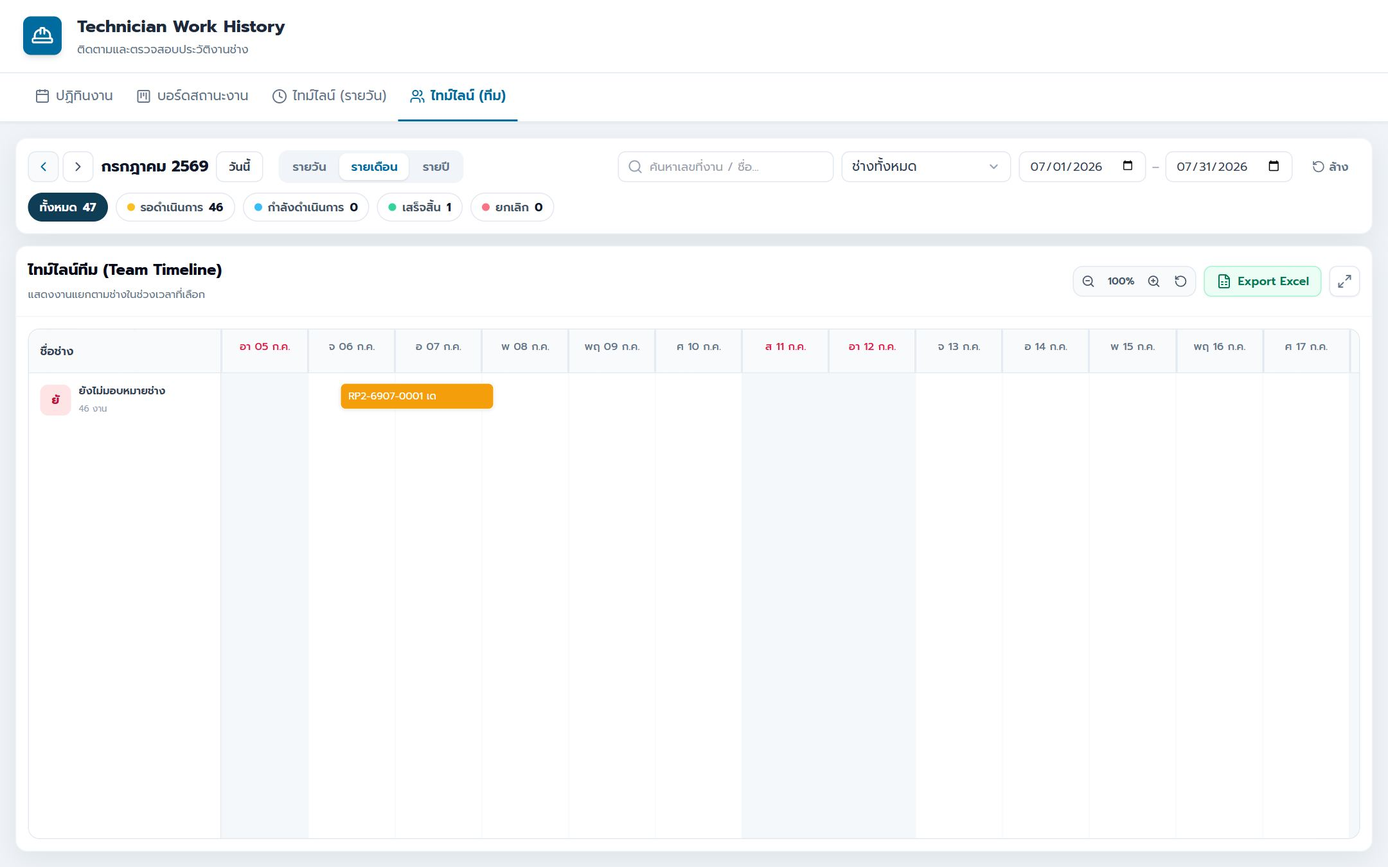
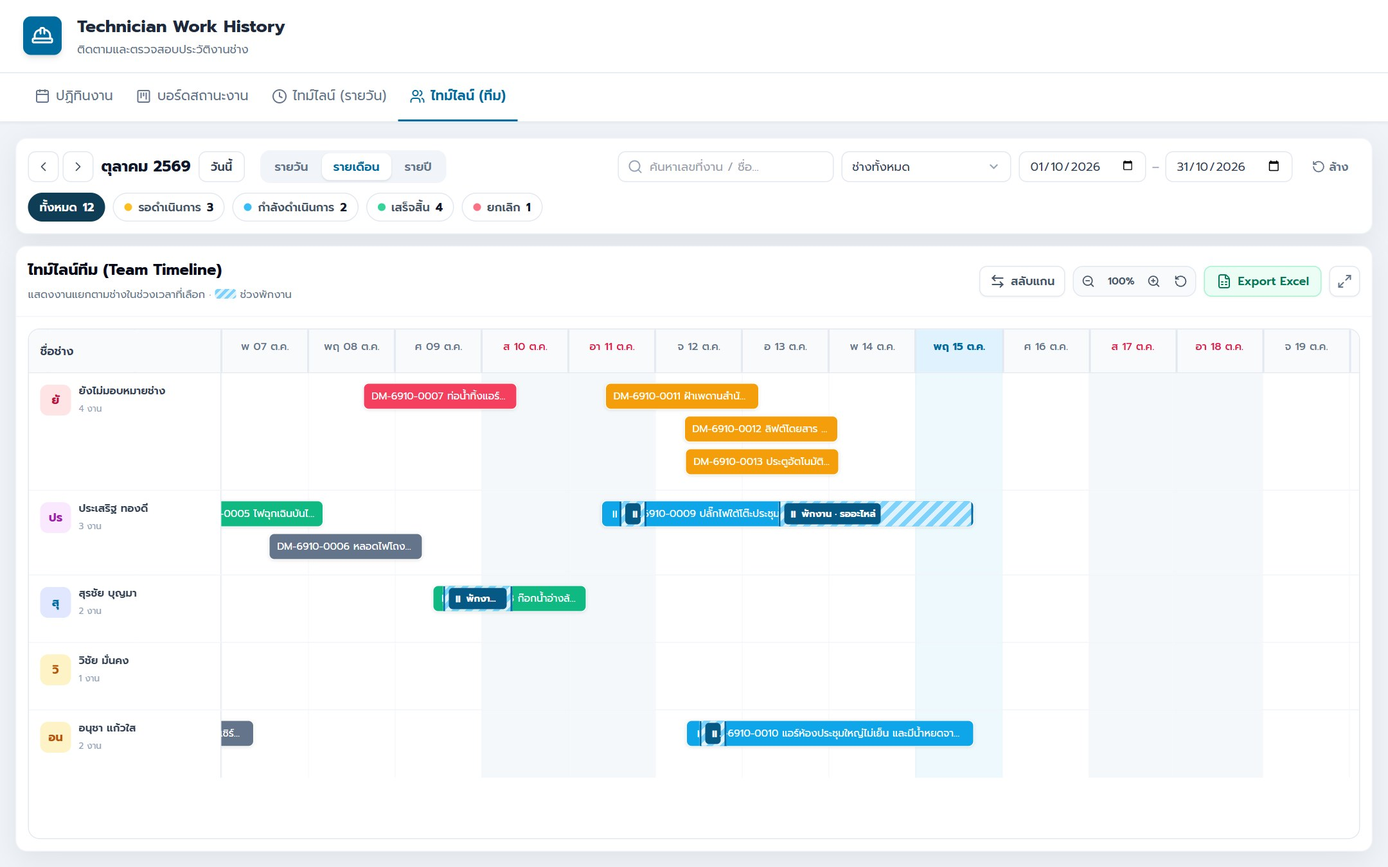
ประวัติงานช่าง: ปุ่มสลับแกนในไทม์ไลน์รายวันและทีม (วันที่/ชื่อช่างเป็นหัวตาราง จำค่าในเบราว์เซอร์) + ปรับคู่มือ

diff --git a/work_history.php b/work_history.php
@@ -427,6 +427,31 @@ include "config_ctrl/checksession.php";
         .timeline-container { max-height: calc(100vh - 290px); }
       }
 
+      /* ไทม์ไลน์แบบสลับแกน: เวลา/วันที่อยู่ด้านซ้าย — วันที่/ช่างเป็นหัวคอลัมน์ */
+      .tlv { width: max-content; min-width: 100%; flex: none; }
+      .tlv-row { display: flex; }
+      .tlv-head { position: sticky; top: 0; z-index: 20; background: #f8fafc; border-bottom: 1px solid #e2e8f0; }
+      .tlv-axis { flex: none; width: var(--axis); position: sticky; left: 0; z-index: 10; background: #fff; border-right: 1px solid #e2e8f0; font-size: .7rem; font-weight: 500; color: #64748b; }
+      .tlv-head .tlv-axis { z-index: 30; background: #f8fafc; padding: .6rem .5rem; font-size: .75rem; font-weight: 600; color: #334155; display: flex; align-items: center; justify-content: center; text-align: center; }
+      .tlv-tick { border-top: 1px solid #f1f5f9; padding: 2px 6px; text-align: right; white-space: nowrap; overflow: hidden; line-height: 1.2; box-sizing: border-box; }
+      .tlv-tick:first-child { border-top: 0; }
+      .tlv-tick.is-weekend { color: #e11d48; }
+      .tlv-tick.is-today { background: #e0f2fe; color: var(--color-primary); font-weight: 700; }
+      .tlv-col { flex: 1 0 var(--w); min-width: var(--w); border-right: 1px solid #e2e8f0; box-sizing: border-box; }
+      .tlv-col:last-child { border-right: 0; }
+      .tlv-head .tlv-col { padding: .45rem .5rem; font-size: .75rem; font-weight: 600; color: #334155; }
+      .tlv-head .tlv-col.is-today { background: #e0f2fe; color: var(--color-primary); box-shadow: inset 0 3px 0 var(--color-primary); }
+      .tlv-col-name { position: sticky; left: calc(var(--axis) + .5rem); display: inline-flex; align-items: center; gap: 6px; max-width: calc(var(--w) - 1rem); min-width: 0; }
+      .tlv-body .tlv-col.is-today { background-color: #f8fcff; }
+      .tlv-grid { position: relative; background-image: linear-gradient(to bottom, #f1f5f9 1px, transparent 1px); }
+      .tlv .timeline-bar { height: auto; align-items: flex-start; white-space: normal; padding: 4px 6px; overflow: hidden; overflow: clip; box-sizing: border-box; }
+      .tlv .timeline-bar:hover { transform: translateX(2px); }
+      .tlv .timeline-bar > .tl-label { position: sticky; top: 62px; z-index: 3; background: inherit; max-height: 2.5em; line-height: 1.3; word-break: break-word; display: -webkit-box; -webkit-box-orient: vertical; -webkit-line-clamp: 2; }
+      .tlv .tl-hold { left: 0; right: 0; bottom: auto; padding: 1px 4px; align-items: flex-end; box-shadow: inset 0 2px 0 #0369a1, inset 0 -2px 0 #0369a1; }
+      .tlv .timeline-now { left: 0; right: 0; bottom: auto; width: auto; height: 2px; }
+      .tlv .tl-day-col { top: auto; bottom: auto; left: 0; right: 0; }
+      .tl-swap-btn[aria-pressed="true"] { background: #e0f2fe; border-color: #7dd3fc; color: var(--color-primary); }
+
       /* Zoom controls */
       .timeline-zoom-controls {
         display: flex;
@@ -640,7 +665,10 @@ include "config_ctrl/checksession.php";
                     <h2 class="text-base xs:text-lg font-bold text-slate-950">ไทม์ไลน์งานรายวัน (Timeline)</h2>
                     <p class="text-[11px] text-slate-500 mt-1">แสดงงานในแต่ละวันตามช่วงเวลา 24 ชั่วโมง · <span class="tl-legend-hold"></span> ช่วงพักงาน</p>
                   </div>
-                  <div class="flex items-center gap-2">
+                  <div class="flex items-center gap-2 flex-wrap">
+                    <button id="btnSwapDaily" type="button" data-swap="daily" aria-pressed="false" title="สลับแกน: วันที่ ⇄ เวลา" class="tl-swap-btn inline-flex h-8 items-center gap-1.5 px-2.5 rounded-lg border border-slate-200 bg-white text-slate-600 text-xs font-semibold shadow-sm hover:bg-slate-50">
+                      <i data-lucide="arrow-left-right" class="h-4 w-4"></i> สลับแกน
+                    </button>
                     <div class="timeline-zoom-controls" title="กด Ctrl/⌘ + เลื่อนล้อเมาส์เพื่อซูมได้เช่นกัน">
                       <button id="btnZoomOutDaily" type="button" title="ซูมออก" class="timeline-zoom-btn">
                         <i data-lucide="zoom-out" class="h-3.5 w-3.5"></i>
@@ -675,7 +703,10 @@ include "config_ctrl/checksession.php";
                     <h2 class="text-base xs:text-lg font-bold text-slate-950">ไทม์ไลน์ทีม (Team Timeline)</h2>
                     <p class="text-[11px] text-slate-500 mt-1">แสดงงานแยกตามช่างในช่วงเวลาที่เลือก · <span class="tl-legend-hold"></span> ช่วงพักงาน</p>
                   </div>
-                  <div class="flex items-center gap-2">
+                  <div class="flex items-center gap-2 flex-wrap">
+                    <button id="btnSwapTeam" type="button" data-swap="team" aria-pressed="false" title="สลับแกน: ช่าง ⇄ วันที่" class="tl-swap-btn inline-flex h-8 items-center gap-1.5 px-2.5 rounded-lg border border-slate-200 bg-white text-slate-600 text-xs font-semibold shadow-sm hover:bg-slate-50">
+                      <i data-lucide="arrow-left-right" class="h-4 w-4"></i> สลับแกน
+                    </button>
                     <div class="timeline-zoom-controls" title="กด Ctrl/⌘ + เลื่อนล้อเมาส์เพื่อซูมได้เช่นกัน">
                       <button id="btnZoomOutTeam" type="button" title="ซูมออก" class="timeline-zoom-btn">
                         <i data-lucide="zoom-out" class="h-3.5 w-3.5"></i>
@@ -756,6 +787,11 @@ include "config_ctrl/checksession.php";
       const ZOOM_STEPS = [0.5, 0.75, 1, 1.5, 2, 3, 4];
       const BASE_HOUR_WIDTH = 55; // px ต่อ 1 ชั่วโมง ที่ซูม 100% (ไทม์ไลน์รายวัน)
       const BASE_DAY_WIDTH = 90; // px ต่อ 1 วัน ที่ซูม 100% (ไทม์ไลน์ทีม)
+      // สลับแกน (เวลาอยู่ด้านซ้าย): ความสูงต่อชั่วโมง/วัน, ความกว้างของงาน 1 เลน, ความสูงขั้นต่ำของแถบงาน
+      const SWAP_HOUR_HEIGHT = 44, SWAP_DAY_HEIGHT = 48, SWAP_LANE_WIDTH = 140, SWAP_MIN_BAR = 38;
+      const SWAP_KEY = (type) => "easypro_wh_swap_" + type;   // จำไว้ในเครื่องของผู้ใช้
+      const swapped = { daily: false, team: false };
+      Object.keys(swapped).forEach((t) => { try { swapped[t] = localStorage.getItem(SWAP_KEY(t)) === "1"; } catch (e) {} });
 
       const els = {
         technicianSelect: byId("technicianSelect"),
@@ -1179,7 +1215,7 @@ include "config_ctrl/checksession.php";
         return `${h.label || "พักงาน"}: ${fmtDate(h.start, { time: true })} – ${end}`;
       }
       // แถบลายทางช่วงพักงานภายในแถบงาน (ใช้พิกัด % เดียวกับไทม์ไลน์)
-      function holdOverlayHtml(job, calcLeft) {
+      function holdOverlayHtml(job, calcLeft, vertical) {
         if (!jobHolds(job).length || !job.renderWidth || !job.renderStart) return "";
         // ตัดตามช่วงที่แสดง แล้วรวมรอบพักที่ติดกัน (ห่างกันไม่เกิน 10 นาที) เป็นแถบเดียว
         const segs = [];
@@ -1195,6 +1231,7 @@ include "config_ctrl/checksession.php";
           const l = Math.min(100, Math.max(0, (calcLeft(new Date(g.s)) - job.renderLeft) / job.renderWidth * 100));
           const w = Math.min(100 - l, (calcLeft(new Date(g.e)) - calcLeft(new Date(g.s))) / job.renderWidth * 100);
           const text = `⏸ พักงาน${g.n > 1 ? ` ${g.n} ครั้ง` : ""} · ${escapeHtmlLite(g.labels.filter(Boolean).join(", "))}`;
+          if (vertical) return `<span class="tl-hold" style="top:min(${l}%, calc(100% - 18px));height:max(18px, ${w}%)"><b class="tl-hold-tag">${text}</b></span>`;
           // ช่วงสั้นมาก (ไม่กี่นาที) ยังต้องมองเห็น: กว้างอย่างน้อย 28px และไม่ล้นท้ายแถบ
           return `<span class="tl-hold" style="left:min(${l}%, calc(100% - 28px));width:max(28px, ${w}%)"><b class="tl-hold-tag">${text}</b></span>`;
         }).join("");
@@ -1278,15 +1315,16 @@ include "config_ctrl/checksession.php";
         cencel: "bg-rose-500"
       };
 
-      function calculateTimelineLanes(jobs, startBound, endBound, calcLeftPct, calcWidthPct, totalPx, openToNow) {
+      function calculateTimelineLanes(jobs, startBound, endBound, calcLeftPct, calcWidthPct, totalPx, openToNow, minPx) {
         const sorted = [...jobs].filter(j => j.workStart).sort((a, b) => new Date(a.workStart) - new Date(b.workStart));
         const lanes = []; // เก็บตำแหน่ง % ฝั่งขวาสุดของแต่ละเลน (เพื่อกันภาพทับกัน)
         
         // กำหนดความกว้างขั้นต่ำประมาณ 160px เพื่อให้เห็นรหัสงานและชื่องานครบถ้วน
-        const MIN_PX = 160; 
+        const MIN_PX = minPx || 160; 
         const minWidthPct = totalPx ? (MIN_PX / totalPx) * 100 : 0;
         
         sorted.forEach(job => {
+            job.renderWidth = undefined;   // ล้างค่าจากการวาดครั้งก่อน
             let start = new Date(job.workStart);
             let end = jobEndDate(job, openToNow);
             
@@ -1338,8 +1376,122 @@ include "config_ctrl/checksession.php";
         return dates;
       }
 
+      // วาดไทม์ไลน์แบบสลับแกน — cols: [{ head, cls, jobs, calcLeft, calcWidth, start, end, now, timeText }] · ticks: [{ label, cls }]
+      function renderSwapped(container, { corner, axisW, ticks, totalPx, cols, openToNow, emptyW, bands, emptyText }) {
+        let overflowPx = 0;
+        const built = cols.map((c) => {
+          const { processedJobs, totalLanes } = calculateTimelineLanes(c.jobs, c.start, c.end, c.calcLeft, c.calcWidth, totalPx, openToNow, SWAP_MIN_BAR);
+          const bars = processedJobs.map((job) => {
+            if (job.renderWidth === undefined) return "";
+            overflowPx = Math.max(overflowPx, Math.ceil((job.renderLeft + job.renderWidth - 100) / 100 * totalPx));
+            return `<div class="timeline-bar ${statusColors[job.status] || "bg-slate-500"}"
+                style="top:${job.renderLeft}%; height:${job.renderWidth}%; left:${6 + job.lane * SWAP_LANE_WIDTH}px; width:${SWAP_LANE_WIDTH - 6}px;"
+                onclick="openJobDetail('${job.id}')" title="${barTitle(job, c.timeText(job))}">
+                ${holdOverlayHtml(job, c.calcLeft, true)}<span class="tl-label">${job.onHold ? "⏸ " : ""}${job.id} ${job.title}</span></div>`;
+          }).join("");
+          return { c, bars, w: Math.max(emptyW, totalLanes * SWAP_LANE_WIDTH + 8) };
+        });
+        const keep = [container.scrollLeft, container.scrollTop];
+        const tickH = totalPx / ticks.length;
+        container.innerHTML = !cols.length ? `<div class="p-8 text-center text-slate-400 text-sm">${emptyText || "ไม่พบข้อมูล"}</div>` : `
+          <div class="tlv" style="--axis:${axisW}px">
+            <div class="tlv-row tlv-head"><div class="tlv-axis">${corner}</div>${built.map((b) => `<div class="tlv-col ${b.c.cls || ""}" style="--w:${b.w}px"><div class="tlv-col-name">${b.c.head}</div></div>`).join("")}</div>
+            <div class="tlv-row tlv-body" style="padding-bottom:${overflowPx ? overflowPx + 6 : 0}px"><div class="tlv-axis">${ticks.map((t) => `<div class="tlv-tick ${t.cls || ""}" style="height:${tickH}px">${t.label}</div>`).join("")}</div>${built.map((b) => `<div class="tlv-col ${b.c.cls || ""}" style="--w:${b.w}px"><div class="tlv-grid" style="height:${totalPx}px;background-size:100% ${tickH}px">${bands || ""}${b.bars}${b.c.now === undefined ? "" : `<div class="timeline-now" style="top:${b.c.now}%" title="ตอนนี้ ${fmtTime(new Date())}"></div>`}</div></div>`).join("")}</div>
+          </div>`;
+        container.scrollLeft = keep[0]; container.scrollTop = keep[1];
+      }
+      // เลื่อนให้เห็นคอลัมน์ที่ i (เว้นคอลัมน์ก่อนหน้า 1 คอลัมน์)
+      function scrollToSwapCol(container, i) {
+        const col = container.querySelectorAll(".tlv-head .tlv-col")[Math.max(0, i - 1)];
+        container.scrollLeft = col ? col.offsetLeft - col.parentElement.firstElementChild.offsetWidth : 0;
+      }
+      function updateSwapUI(type) {
+        const btn = document.querySelector(`[data-swap="${type}"]`);
+        if (btn) btn.setAttribute("aria-pressed", swapped[type] ? "true" : "false");
+      }
+      function initSwapControls() {
+        document.querySelectorAll("[data-swap]").forEach((btn) => {
+          const type = btn.dataset.swap;
+          updateSwapUI(type);
+          btn.addEventListener("click", () => {
+            swapped[type] = !swapped[type];
+            try { localStorage.setItem(SWAP_KEY(type), swapped[type] ? "1" : "0"); } catch (e) {}
+            updateSwapUI(type);
+            const c = type === "daily" ? els.timelineDailyContainer : els.timelineTeamContainer;
+            c.scrollLeft = c.scrollTop = 0;
+            if (type === "daily") { dailyScrollKey = ""; renderTimelineDaily(); } else { teamScrollKey = ""; renderTimelineTeam(); }
+          });
+        });
+      }
+      const dailyTimeText = (job) => `${fmtTime(job.workStart)} - ${job.workEnd ? fmtTime(job.workEnd) : (job.status === "in_progress" ? "ยังไม่เสร็จ" : "N/A")}`;
+      const teamTimeText = (job) => `${fmtDate(job.workStart, {time:true})} - ${job.workEnd ? fmtDate(job.workEnd, {time:true}) : (job.status === "in_progress" ? "ยังไม่เสร็จ" : "-")}`;
+
+      // รายวันแบบสลับแกน: หัวคอลัมน์ = วันที่, ด้านซ้าย = เวลา 24 ชม.
+      function renderTimelineDailySwapped() {
+        const jobs = getFilteredJobs(false, "hold");
+        const box = els.timelineDailyContainer, todayYMD = toYMD(new Date());
+        const totalPx = Math.round(SWAP_HOUR_HEIGHT * ZOOM_STEPS[state.zoomDailyIdx] * 24);
+        const dates = getDatesInRange(state.startDate, state.endDate);
+        const calcLeft = (t) => ((t.getHours() * 60 + t.getMinutes()) / 1440) * 100;
+        const calcWidth = (s, e) => ((e - s) / 60000) / 1440 * 100;
+        let firstHour = 99, firstCol = -1;
+        const cols = dates.map((day, i) => {
+          const start = new Date(day), end = new Date(day);
+          start.setHours(0, 0, 0, 0); end.setHours(23, 59, 59, 999);
+          const dayJobs = jobs.filter((j) => new Date(j.workStart) <= end && jobEndDate(j, "hold") >= start);
+          const isToday = toYMD(day) === todayYMD, isWeekend = day.getDay() === 0 || day.getDay() === 6;
+          dayJobs.forEach((j) => { const s = new Date(j.workStart); if (s >= start) firstHour = Math.min(firstHour, s.getHours()); });
+          if (firstCol < 0 && dayJobs.length) firstCol = i;
+          return { jobs: dayJobs, start, end, calcLeft, calcWidth, timeText: dailyTimeText, cls: isToday ? "is-today" : "", now: isToday ? calcLeft(new Date()) : undefined,
+            head: `<span class="min-w-0"><span class="block whitespace-nowrap ${isWeekend && !isToday ? "text-rose-600" : ""}">${new Intl.DateTimeFormat("th-TH", { weekday: "short" }).format(day)} ${fmtShortDate(day)}</span><span class="block text-[10px] text-slate-400 font-normal whitespace-nowrap">${dayJobs.length} งาน${isToday ? " · วันนี้" : ""}</span></span>` };
+        });
+        renderSwapped(box, { corner: "เวลา", axisW: 60, totalPx, cols, openToNow: "hold", emptyW: 104, ticks: Array.from({ length: 24 }, (_, h) => ({ label: pad(h) + ":00" })) });
+        const rangeKey = toYMD(state.startDate) + toYMD(state.endDate) + state.technicianId;
+        if (dailyScrollKey !== rangeKey && box.offsetParent) {
+          dailyScrollKey = rangeKey;
+          box.scrollTop = (totalPx / 24) * (firstHour === 99 ? 7 : Math.max(0, firstHour - 1));
+          const t = dates.findIndex((d) => toYMD(d) === todayYMD);
+          scrollToSwapCol(box, t >= 0 ? t : Math.max(0, firstCol));
+        }
+        updateZoomUI("daily");
+      }
+
+      // ทีมแบบสลับแกน: หัวคอลัมน์ = ช่าง, ด้านซ้าย = วันที่
+      function renderTimelineTeamSwapped() {
+        const jobs = getFilteredJobs(false, true);
+        const box = els.timelineTeamContainer, todayYMD = toYMD(new Date());
+        const dates = getDatesInRange(state.startDate, state.endDate), n = dates.length;
+        const totalPx = Math.round(SWAP_DAY_HEIGHT * ZOOM_STEPS[state.zoomTeamIdx] * n);
+        const start = new Date(state.startDate), end = new Date(state.endDate);
+        start.setHours(0, 0, 0, 0); end.setHours(23, 59, 59, 999);
+        const calcLeft = (t) => ((t - start) / (end - start)) * 100;
+        const calcWidth = (s, e) => ((e - s) / (end - start)) * 100;
+        let bands = "";
+        const ticks = dates.map((day, i) => {
+          const isToday = toYMD(day) === todayYMD, isWeekend = day.getDay() === 0 || day.getDay() === 6;
+          if (isToday || isWeekend) bands += `<div class="tl-day-col ${isToday ? "is-today" : "is-weekend"}" style="top:${(i / n) * 100}%; height:${100 / n}%"></div>`;
+          return { label: `${new Intl.DateTimeFormat("th-TH", { weekday: "narrow" }).format(day)} ${fmtShortDate(day)}`, cls: `${isToday ? "is-today" : ""} ${isWeekend ? "is-weekend" : ""}` };
+        });
+        const cols = mockData.technicians.filter((t) => t.id !== "all" && (state.technicianId === "all" || t.id === state.technicianId)).map((tech) => {
+          const techJobs = jobs.filter((j) => j.technicianId === tech.id);
+          return { jobs: techJobs, start, end, calcLeft, calcWidth, timeText: teamTimeText,
+            head: `${renderAvatarLabel(tech, "h-7 w-7 rounded-lg text-[11px] flex-none")}<span class="min-w-0"><span class="block text-[11px] leading-tight truncate" title="${tech.name}">${tech.name}</span><span class="block text-[10px] text-slate-400 font-normal">${techJobs.length} งาน</span></span>` };
+        });
+        renderSwapped(box, { corner: "วันที่", axisW: 84, totalPx, cols, ticks, bands, openToNow: true, emptyW: 150, emptyText: "ไม่พบข้อมูลช่าง" });
+        const rangeKey = toYMD(state.startDate) + toYMD(state.endDate) + state.technicianId;
+        if (teamScrollKey !== rangeKey && box.offsetParent) {
+          teamScrollKey = rangeKey;
+          let idx = dates.findIndex((d) => toYMD(d) === todayYMD);
+          if (idx < 0) { const first = jobs.filter((j) => j.workStart).map((j) => new Date(j.workStart)).sort((a, b) => a - b)[0];
+            idx = first ? Math.max(0, Math.floor((first - start) / 864e5)) : 0; }
+          box.scrollTop = Math.max(0, (idx - 1) * (totalPx / n));
+        }
+        updateZoomUI("team");
+      }
+
       let dailyScrollKey = "";   // ช่วงเวลาที่เลื่อนอัตโนมัติไปแล้ว (เลื่อนเองแล้วไม่ดึงกลับ)
       function renderTimelineDaily() {
+        if (swapped.daily) return renderTimelineDailySwapped();
         const jobs = getFilteredJobs(false, "hold");
         let firstHour = 99;
         const dates = getDatesInRange(state.startDate, state.endDate);
@@ -1429,6 +1581,7 @@ include "config_ctrl/checksession.php";
 
       let teamScrollKey = "";   // ช่วงเวลาที่เลื่อนอัตโนมัติไปแล้ว
       function renderTimelineTeam() {
+        if (swapped.team) return renderTimelineTeamSwapped();
         const jobs = getFilteredJobs(false, true);
         const dates = getDatesInRange(state.startDate, state.endDate);
         const totalDays = dates.length;
@@ -1827,10 +1980,21 @@ include "config_ctrl/checksession.php";
         if (btnOut) btnOut.disabled = idx <= 0;
       }
 
-      function setZoom(type, newIdx, container, anchorClientX) {
+      function setZoom(type, newIdx, container, anchorClientX, anchorClientY) {
         const clampedIdx = Math.max(0, Math.min(ZOOM_STEPS.length - 1, newIdx));
         const key = type === "daily" ? "zoomDailyIdx" : "zoomTeamIdx";
         if (state[key] === clampedIdx) return;
+
+        // สลับแกน: เวลาอยู่แนวตั้ง => คงตำแหน่งแนวตั้ง
+        if (swapped[type] && container) {
+          const y = anchorClientY !== undefined ? anchorClientY - container.getBoundingClientRect().top : container.clientHeight / 2;
+          const headH = () => { const h = container.querySelector(".tlv-head"); return h ? h.offsetHeight : 0; };
+          const k = ZOOM_STEPS[clampedIdx] / ZOOM_STEPS[state[key]], at = container.scrollTop + y - headH();
+          state[key] = clampedIdx;
+          if (type === "daily") renderTimelineDaily(); else renderTimelineTeam();
+          container.scrollTop = at * k + headH() - y;
+          return;
+        }
 
         // จำตำแหน่งสัดส่วนการเลื่อนสกอลล์ไว้ เพื่อให้จุดที่มองอยู่คงที่ตอนซูม
         let ratio = 0;
@@ -1852,9 +2016,9 @@ include "config_ctrl/checksession.php";
         }
       }
 
-      function changeZoom(type, direction, container, anchorClientX) {
+      function changeZoom(type, direction, container, anchorClientX, anchorClientY) {
         const key = type === "daily" ? "zoomDailyIdx" : "zoomTeamIdx";
-        setZoom(type, state[key] + direction, container, anchorClientX);
+        setZoom(type, state[key] + direction, container, anchorClientX, anchorClientY);
       }
 
       function resetZoom(type, container) {
@@ -1862,6 +2026,7 @@ include "config_ctrl/checksession.php";
       }
 
       function initZoomControls() {
+        initSwapControls();
         const configs = [
           { type: "daily", inBtn: els.btnZoomInDaily, outBtn: els.btnZoomOutDaily, resetBtn: els.btnZoomResetDaily, container: els.timelineDailyContainer },
           { type: "team", inBtn: els.btnZoomInTeam, outBtn: els.btnZoomOutTeam, resetBtn: els.btnZoomResetTeam, container: els.timelineTeamContainer },
@@ -1877,7 +2042,7 @@ include "config_ctrl/checksession.php";
               (e) => {
                 if (!(e.ctrlKey || e.metaKey)) return;
                 e.preventDefault();
-                changeZoom(type, e.deltaY < 0 ? 1 : -1, container, e.clientX);
+                changeZoom(type, e.deltaY < 0 ? 1 : -1, container, e.clientX, e.clientY);
               },
               { passive: false }
             );

diff --git a/tutorial.php b/tutorial.php
@@ -522,13 +522,27 @@ const MODULES = [
         { title: 'ไทม์ไลน์ (รายวัน)', shot: 'wh_daily', steps: [
             { m: 1, t: 'แต่ละแถวคือ 1 วัน (วันนี้มีแถบสีฟ้า เสาร์-อาทิตย์ตัวสีแดง) พร้อมจำนวนงานของวันนั้น' },
             { m: 2, t: 'แนวนอนคือเวลา 24 ชั่วโมง แถบสีคือใบงาน (สีตามสถานะ) กดแถบเพื่อดูรายละเอียด — เส้นสีแดงคือเวลาปัจจุบัน ระบบเลื่อนไปยังช่วงที่มีงานให้อัตโนมัติ' },
-            { m: 3, t: 'ซูม − / + / รีเซ็ต (หรือ Ctrl + เลื่อนล้อเมาส์), <span class="kbd">Export Excel</span> และขยายเต็มจอ' }
+            { m: 3, t: 'ซูม − / + / รีเซ็ต (หรือ Ctrl + เลื่อนล้อเมาส์), <span class="kbd">Export Excel</span> และขยายเต็มจอ' },
+            { m: 4, t: '<span class="kbd">สลับแกน</span> — เปลี่ยนให้วันที่เป็นหัวตาราง (หัวข้อถัดไป)' }
+        ] },
+        { title: 'ไทม์ไลน์ (รายวัน) แบบสลับแกน', shot: 'wh_daily_swap', steps: [
+            { m: 1, t: '<span class="kbd">สลับแกน</span> เป็นสีฟ้า = ใช้มุมมองสลับแกนอยู่ กดอีกครั้งเพื่อกลับ' },
+            { m: 2, t: '<b>หัวตารางคือวันที่</b> พร้อมจำนวนงาน (วันที่มีงานซ้อนกัน คอลัมน์จะกว้างขึ้น)' },
+            { m: 3, t: '<b>ด้านซ้ายคือเวลา</b> — เลื่อนขึ้น/ลงเพื่อดูช่วงเวลาอื่น' },
+            { m: 4, t: 'แถบสีคือใบงาน กดเพื่อดูรายละเอียด — แถบยาวตามเวลาทำงาน ช่วงพักงานเป็นลายทาง' }
         ] },
         { title: 'ไทม์ไลน์ (ทีม)', shot: 'wh_team', steps: [
             { m: 1, t: 'แนวนอนคือวันที่ — วันหยุดเสาร์-อาทิตย์มีพื้นสีเทา และวันนี้ไฮไลต์สีฟ้า' },
             { m: 2, t: 'แต่ละแถวคือช่าง 1 คน พร้อมจำนวนงาน แถว <b>ยังไม่มอบหมายช่าง</b> คืองานที่ยังไม่มีคนรับ' },
             { m: 3, t: 'แถบสีคือใบงาน — เห็นว่าใครมีงานซ้อน ใครว่าง (งานที่ซ้อนกันจะเรียงเป็นหลายชั้น)' },
-            { m: 4, t: 'ซูม, <span class="kbd">Export Excel</span> และขยายเต็มจอ เหมือนไทม์ไลน์รายวัน' }
+            { m: 4, t: 'ซูม, <span class="kbd">Export Excel</span> และขยายเต็มจอ เหมือนไทม์ไลน์รายวัน' },
+            { m: 5, t: '<span class="kbd">สลับแกน</span> — เปลี่ยนให้ชื่อช่างเป็นหัวตาราง (หัวข้อถัดไป)' }
+        ] },
+        { title: 'ไทม์ไลน์ (ทีม) แบบสลับแกน', shot: 'wh_team_swap', steps: [
+            { m: 1, t: '<span class="kbd">สลับแกน</span> — กดอีกครั้งเพื่อกลับมุมมองเดิม' },
+            { m: 2, t: '<b>หัวตารางคือชื่อช่าง</b> พร้อมจำนวนงาน' },
+            { m: 3, t: '<b>ด้านซ้ายคือวันที่</b> — วันหยุดตัวสีแดง วันนี้ไฮไลต์สีฟ้า' },
+            { m: 4, t: 'แถบสีคือใบงาน กดเพื่อดูรายละเอียด — งานที่ซ้อนกันเรียงข้างกัน' }
         ] },
         { title: 'ช่วงพักงานบนไทม์ไลน์', shot: 'wh_hold', steps: [
             { t: 'งานซ่อมที่เคย<b>พักงาน</b> (รออะไหล่ / ส่งต่อผู้รับเหมา / รอเข้าพื้นที่ ฯลฯ — ดูบท <b>พักงาน / ติดตามงาน</b>) จะแสดงช่วงที่พักบนแถบงาน' },
@@ -537,7 +551,7 @@ const MODULES = [
             { m: 3, t: 'งานที่ <b>กำลังพักอยู่</b> แถบจะยาวถึงเวลาปัจจุบัน และมี ⏸ หน้าชื่องาน · เอาเมาส์ชี้ที่แถบเพื่อดูช่วงพักทั้งหมด' }
         ] },
         { title: 'ช่วงพักงานในไทม์ไลน์ทีม', shot: 'wh_hold_team', steps: [
-            { m: 1, t: 'ในแถวของช่าง เห็นว่างานไหนหยุดรอ และหยุดนานเท่าไร' },
+            { m: 1, t: 'ในแถวของช่าง (แบบสลับแกน: ในคอลัมน์ของช่าง) เห็นว่างานไหนหยุดรอ และหยุดนานเท่าไร' },
             { m: 2, t: 'งานที่ยังไม่ปิด (กำลังดำเนินการ) แสดงยาวถึงวันนี้ — เห็นว่าช่างยังติดงานนี้อยู่' }
         ] },
         { title: 'รายละเอียดงานที่มีการพักงาน', shot: 'wh_hold_detail', steps: [
@@ -545,7 +559,8 @@ const MODULES = [
             { m: 2, t: '<b>ใช้เวลาทำงาน (หักพักงาน)</b> — เวลาทำงานจริง ไม่นับช่วงที่พัก · งานที่ยังไม่เสร็จแสดงเวลาที่ทำไปแล้ว และบรรทัดล่างคือเวลาพักงานรวม' },
             { m: 3, t: '<b>ช่วงพักงาน</b> — ทุกรอบที่พัก: สาเหตุ ช่วงวันเวลา หมายเหตุ ระยะเวลา (รอบที่ยังไม่จบมีป้าย <b>กำลังพัก</b>)' }
         ] }],
-        tips: ['รอบพักงานที่บันทึกไว้<b>หลังเวลาปิดงาน</b> จะไม่ถูกหักออกจากเวลาทำงาน (ในรายละเอียดงานมีป้ายแดง "หลังเวลาปิดงาน (ไม่นับ)")',
+        tips: ['<span class="kbd">สลับแกน</span> ของรายวันและทีมแยกกัน และจำไว้ในเบราว์เซอร์ของเครื่องนั้น — <span class="kbd">Export Excel</span> ยังเป็นแกนเดิมเสมอ',
+               'รอบพักงานที่บันทึกไว้<b>หลังเวลาปิดงาน</b> จะไม่ถูกหักออกจากเวลาทำงาน (ในรายละเอียดงานมีป้ายแดง "หลังเวลาปิดงาน (ไม่นับ)")',
                '<span class="kbd">Export Excel</span> ชีตรายการข้อมูล มีคอลัมน์ <b>เวลาพักงาน</b> และ <b>ช่วงพักงาน</b> และระยะเวลาทำงานเป็นแบบหักพักงานแล้ว']
     }]
 },
@@ -1601,6 +1616,7 @@ const FAQ = [
     ['แจ้งซ่อม', 'แจ้งซ่อมแล้ว จะรู้ได้อย่างไรว่าช่างรับงานแล้ว', 'ดูสถานะในเมนูข้อมูลแจ้งซ่อม: รอดำเนินการ → กำลังดำเนินการ (ช่างรับงานแล้ว) → เสร็จสิ้น', 'repair_list'],
     ['แจ้งซ่อม', 'ขึ้นเดือนใหม่แล้ว งานเดือนก่อนที่ยังไม่เสร็จหายไปไหม', 'ไม่หาย — การ์ดรอดำเนินการ / กำลังดำเนินการในหน้าหลักนับงานค้างทั้งหมด และมีแถบเตือนสีส้มบอกงานที่ค้างจากก่อนช่วงที่เลือก กด "ดูรายการ" เพื่อเปิดทั้งหมด (บนมือถือเลือกชิป "งานค้าง")', 'dashboard'],
     ['แจ้งซ่อม', 'งานรออะไหล่ / ส่งต่อผู้รับเหมา ควรบันทึกอย่างไร', 'เปิดรายละเอียดงานซ่อม แล้วกด "พักงาน" ในขั้นที่ 2 เลือกเหตุผล (รออะไหล่ให้ค้นหาอะไหล่จากทุกคลัง) — เมื่ออะไหล่เข้าคลังระบบแจ้งเตือน แล้วกด "กลับมาดำเนินการ"', 'repair_hold'],
+    ['แจ้งซ่อม', 'อยากให้ไทม์ไลน์งานช่างแสดงวันที่ / ชื่อช่างเป็นหัวตาราง', 'เมนูประวัติงานช่าง แท็บไทม์ไลน์ (รายวัน) หรือ (ทีม) กดปุ่ม <b>สลับแกน</b> ข้างปุ่มซูม กดอีกครั้งเพื่อกลับ', 'work_history'],
     ['แจ้งซ่อม', 'แจ้งซ่อมผิด ต้องการยกเลิก', 'กดปุ่ม ✕ ยกเลิกใบงาน ในเมนูข้อมูลแจ้งซ่อม (ยกเลิกได้เฉพาะงานที่ยังไม่ปิด)', 'repair_list'],
     ['แจ้งซ่อม', 'ส่งแบบประเมินไม่ได้', 'ต้องปิดงานให้เป็นสถานะเสร็จสิ้นก่อน จึงจะส่งแบบประเมินได้', 'repair_eval'],
     ['แจ้งซ่อม', 'สแกน QR ที่ตัวเครื่องแล้วไปหน้าไหน', 'เปิดหน้าประวัติเครื่องจักร ดูข้อมูลเครื่องและประวัติซ่อม แล้วกด "แจ้งซ่อมเครื่องจักรนี้" ได้เลย', 'qr'],
